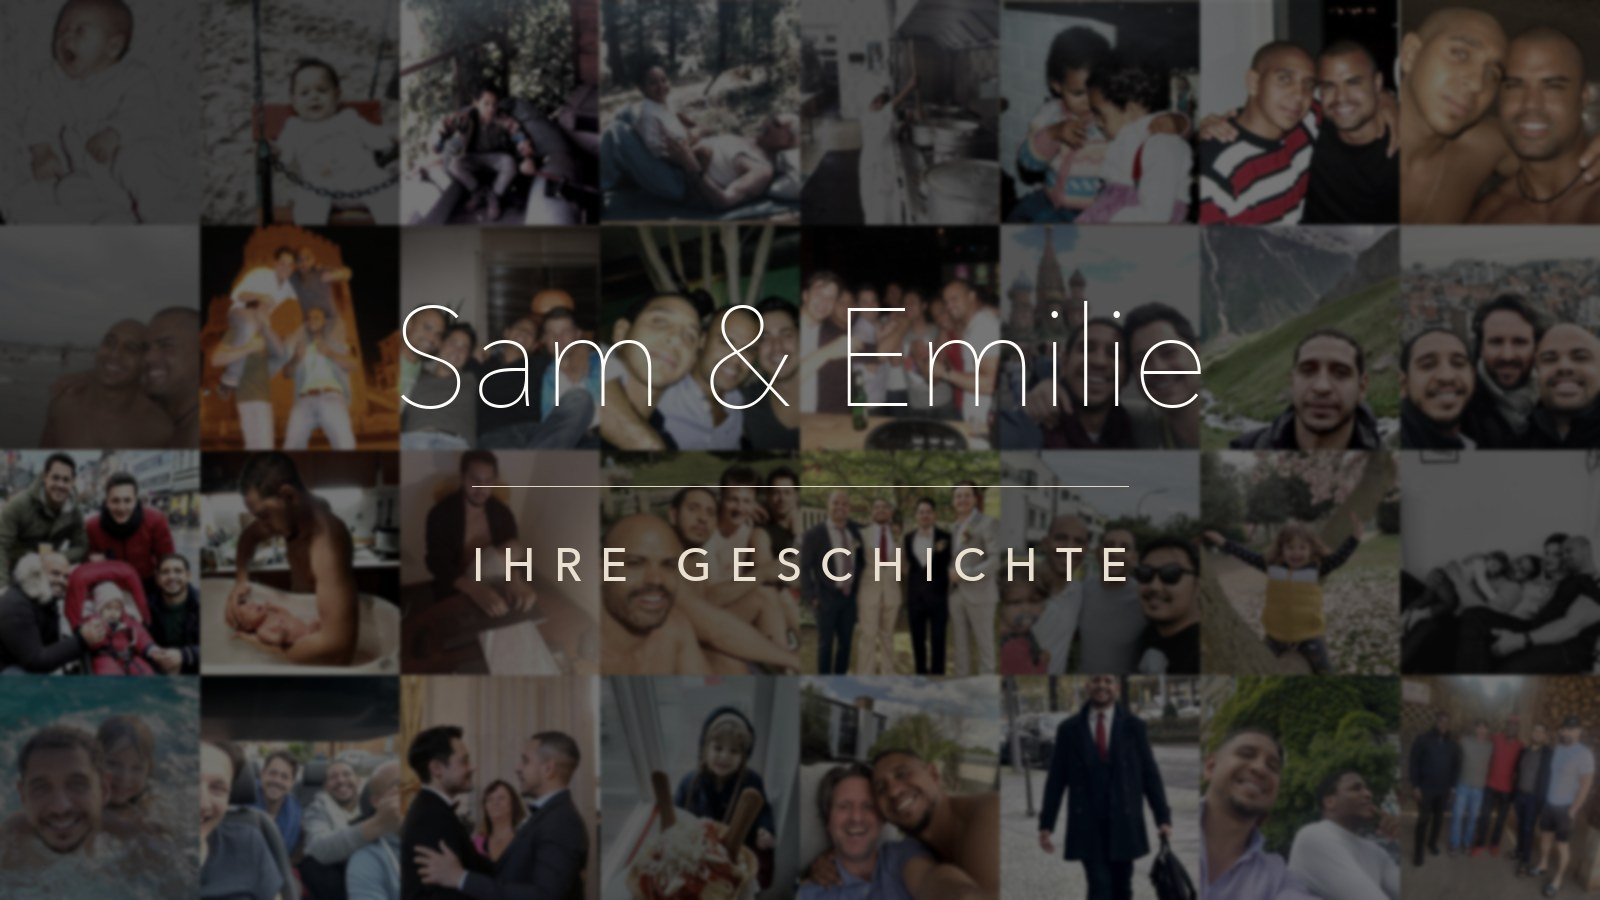
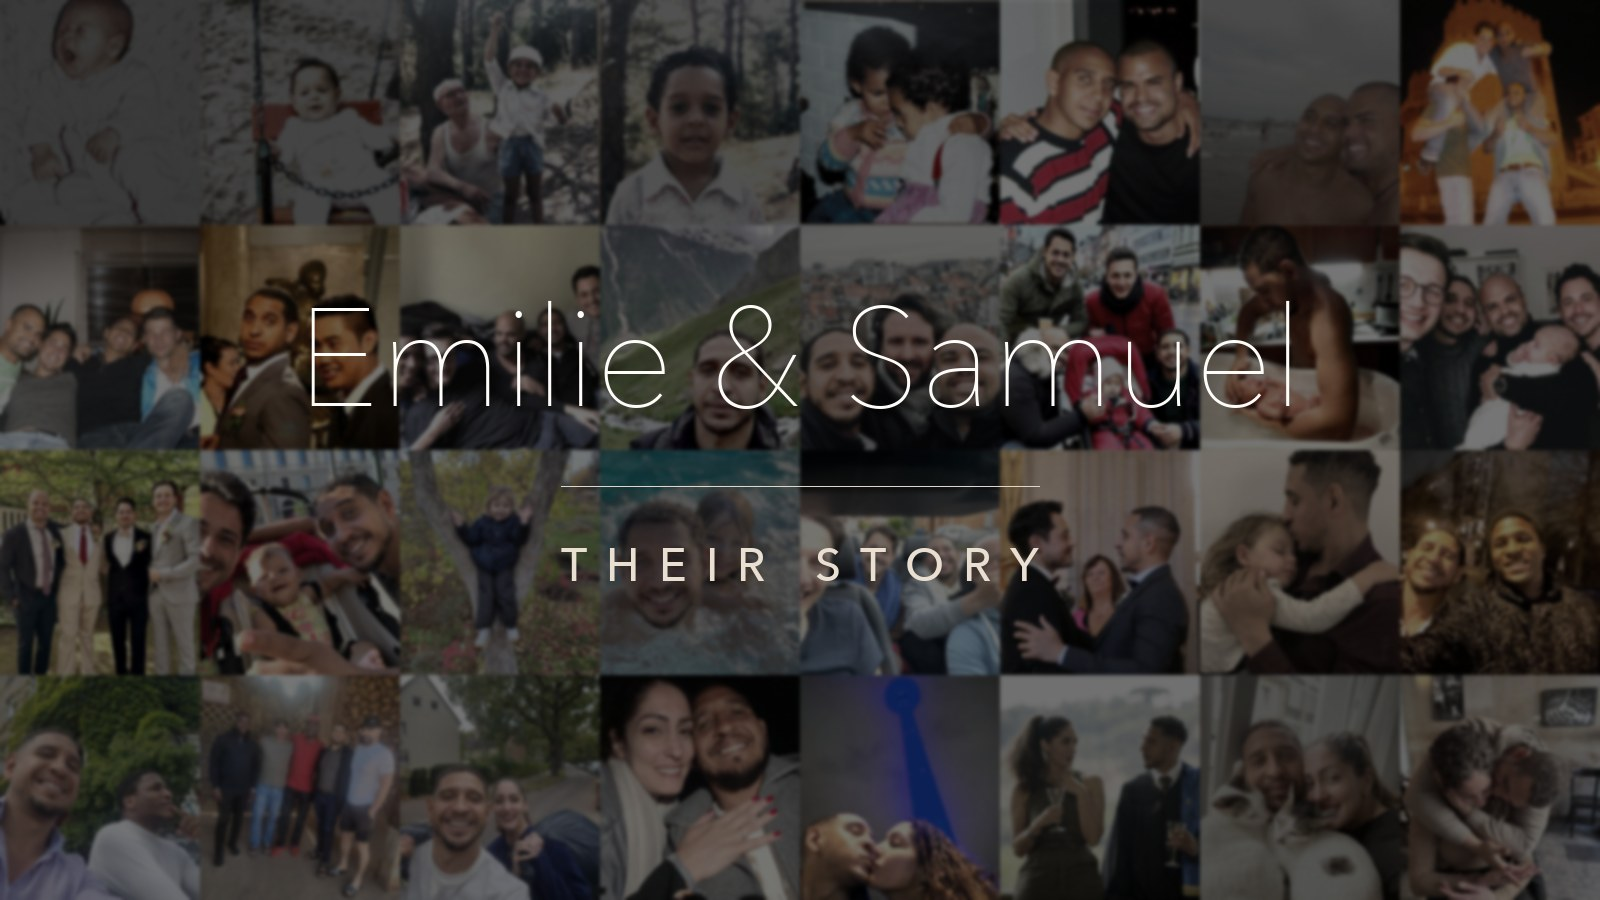
Emilie & Sam: title slide + 13 photos; card retitled "Emilie & Samuel – Their Story"

diff --git a/index.html b/index.html
@@ -3,16 +3,16 @@
 <head>
 <meta charset="utf-8">
 <meta name="viewport" content="width=device-width,initial-scale=1,viewport-fit=cover">
-<title>Sam &amp; Emilie – Ihre Geschichte</title>
-<meta name="description" content="Von den ersten Tagen bis heute.">
+<title>Emilie &amp; Samuel – Their Story</title>
+<meta name="description" content="From the first days until now.">
 <link rel="icon" href="favicon.ico" sizes="any">
 <link rel="icon" type="image/png" sizes="32x32" href="favicon-32.png">
 <link rel="icon" type="image/png" sizes="192x192" href="favicon-192.png">
 <link rel="apple-touch-icon" href="apple-touch-icon.png">
 <meta property="og:type" content="website">
-<meta property="og:site_name" content="Sam &amp; Emilie – Ihre Geschichte">
-<meta property="og:title" content="Sam &amp; Emilie – Ihre Geschichte">
-<meta property="og:description" content="Von den ersten Tagen bis heute.">
+<meta property="og:site_name" content="Emilie &amp; Samuel – Their Story">
+<meta property="og:title" content="Emilie &amp; Samuel – Their Story">
+<meta property="og:description" content="From the first days until now.">
 <meta property="og:locale" content="de_DE">
 <meta property="og:url" content="https://digitalmovementuk.github.io/sam-story-8c088e/">
 <meta property="og:image" content="https://digitalmovementuk.github.io/sam-story-8c088e/og.jpg">
@@ -20,10 +20,10 @@
 <meta property="og:image:type" content="image/jpeg">
 <meta property="og:image:width" content="1200">
 <meta property="og:image:height" content="630">
-<meta property="og:image:alt" content="Sam &amp; Emilie – Ihre Geschichte">
+<meta property="og:image:alt" content="Emilie &amp; Samuel – Their Story">
 <meta name="twitter:card" content="summary_large_image">
-<meta name="twitter:title" content="Sam &amp; Emilie – Ihre Geschichte">
-<meta name="twitter:description" content="Von den ersten Tagen bis heute.">
+<meta name="twitter:title" content="Emilie &amp; Samuel – Their Story">
+<meta name="twitter:description" content="From the first days until now.">
 <meta name="twitter:image" content="https://digitalmovementuk.github.io/sam-story-8c088e/og.jpg">
 <meta name="theme-color" content="#0c0b0a">
 <style>
@@ -127,6 +127,20 @@
 <img src="assets/51.jpg" alt="" width="1600" height="1200" loading="lazy">
 <img src="assets/52.jpg" alt="" width="1024" height="769" loading="lazy">
 <img src="assets/53.jpg" alt="" width="1200" height="1600" loading="lazy">
+<img src="assets/54.jpg" alt="" width="2400" height="1350" loading="lazy">
+<img src="assets/55.jpg" alt="" width="1600" height="1200" loading="lazy">
+<img src="assets/56.jpg" alt="" width="1600" height="1200" loading="lazy">
+<img src="assets/57.jpg" alt="" width="1200" height="1600" loading="lazy">
+<img src="assets/58.jpg" alt="" width="1600" height="1200" loading="lazy">
+<img src="assets/59.jpg" alt="" width="1600" height="1200" loading="lazy">
+<img src="assets/60.jpg" alt="" width="1200" height="1600" loading="lazy">
+<img src="assets/61.jpg" alt="" width="1200" height="1600" loading="lazy">
+<img src="assets/62.jpg" alt="" width="1066" height="1600" loading="lazy">
+<img src="assets/63.jpg" alt="" width="1600" height="1068" loading="lazy">
+<img src="assets/64.jpg" alt="" width="1800" height="2400" loading="lazy">
+<img src="assets/65.jpg" alt="" width="1200" height="1599" loading="lazy">
+<img src="assets/66.jpg" alt="" width="1600" height="1200" loading="lazy">
+<img src="assets/67.jpg" alt="" width="1800" height="2400" loading="lazy">
 <script>
 (function(){
   var root=document.documentElement, body=document.body;
